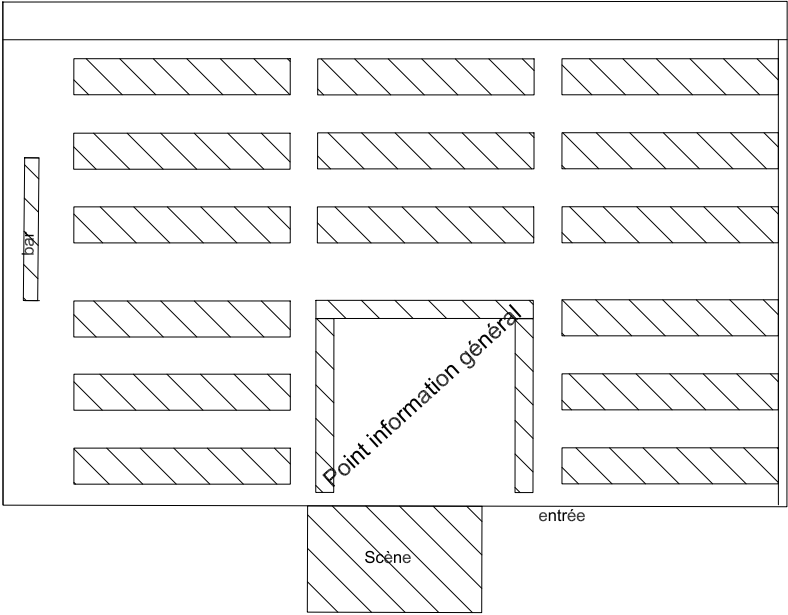
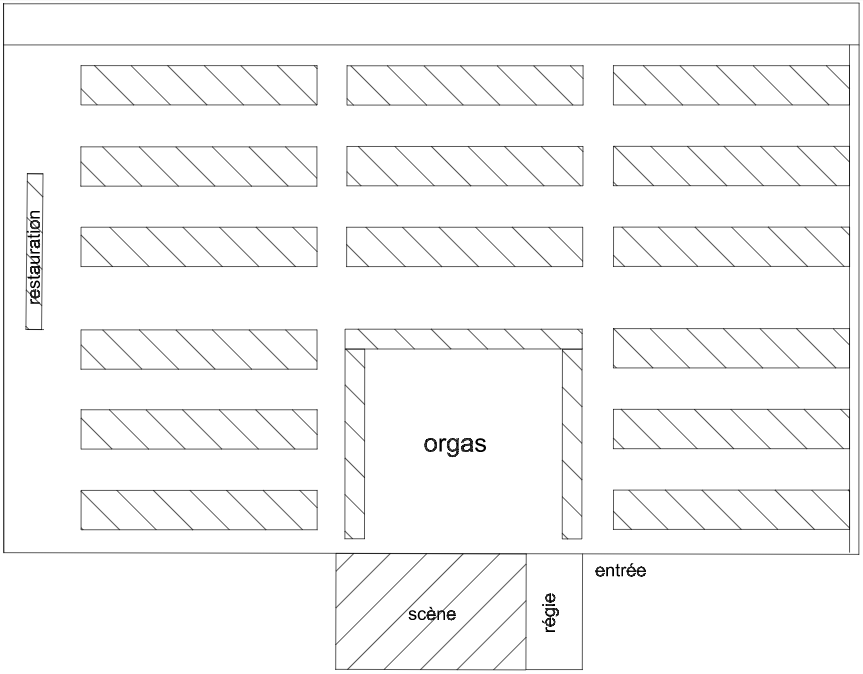
New map

diff --git a/js/placement.js b/js/placement.js
@@ -7,34 +7,32 @@ $plans.each(function () {
     var placement = parseInt($plan.attr('data-placement'), 10);
 
     var x = [
-        75,   146,  218,  318,  389,  462,  563,  634,  706,
-        75,   146,  218,  318,  389,  462,  563,  634,  706,
-        75,   146,  218,  318,  389,  462,  563,  634,  706,
-        75,   146,  218,  318,  389,  462,  563,  634,  706,
-        75,   146,  218,  318,  389,  462,  563,  634,  706,
-        75,   146,  218,  318,  389,  462,  563,  634,  706,
-        75,   146,  218,                    563,  634,  706,
-        75,   146,  218,                    563,  634,  706,
-        75,   146,  218,                    563,  634,  706,
-        75,   146,  218,                    563,  634,  706,
-        75,   146,  218,                    563,  634,  706,
-        75,   146,  218,                    563,  634,  706,
-        75,   146,  218,                    563,  634,  706
+        80,   160,  240,  347,  427,  503,  613,  693,  769,
+        80,   160,  240,  347,  427,  503,  613,  693,  769,
+        80,   160,  240,  347,  427,  503,  613,  693,  769,
+        80,   160,  240,  347,  427,  503,  613,  693,  769,
+        80,   160,  240,  347,  427,  503,  613,  693,  769,
+        80,   160,  240,  347,  427,  503,  613,  693,  769,
+        80,   160,  240,                    613,  693,  769,
+        80,   160,  240,                    613,  693,  769,
+        80,   160,  240,                    613,  693,  769,
+        80,   160,  240,                    613,  693,  769,
+        80,   160,  240,                    613,  693,  769,
+        80,   160,  240,                    613,  693,  769
     ];
     var y = [
-        -555, -555, -555, -555, -555, -555, -555, -555, -555,
-        -537, -537, -537, -537, -537, -537, -537, -537, -537,
-        -481, -481, -481, -481, -481, -481, -481, -481, -481,
-        -464, -464, -464, -464, -464, -464, -464, -464, -464,
-        -407, -407, -407, -407, -407, -407, -407, -407, -407,
-        -390, -390, -390, -390, -390, -390, -390, -390, -390,
-        -312, -312, -312,                   -312, -312, -312,
-        -296, -296, -296,                   -296, -296, -296,
-        -296, -296, -296,                   -296, -296, -296,
-        -240, -240, -240,                   -240, -240, -240,
-        -222, -222, -222,                   -222, -222, -222,
-        -166, -166, -166,                   -166, -166, -166,
-        -148, -148, -148,                   -148, -148, -148
+        -608, -608, -608, -608, -608, -608, -608, -608, -608,
+        -589, -589, -589, -589, -589, -589, -589, -589, -589,
+        -527, -527, -527, -527, -527, -527, -527, -527, -527,
+        -507, -507, -507, -507, -507, -507, -507, -507, -507,
+        -447, -447, -447, -447, -447, -447, -447, -447, -447,
+        -427, -427, -427, -427, -427, -427, -427, -427, -427,
+        -345, -345, -345,                   -345, -345, -345,
+        -325, -325, -325,                   -325, -325, -325,
+        -265, -265, -265,                   -265, -265, -265,
+        -245, -245, -245,                   -245, -245, -245,
+        -184, -184, -184,                   -184, -184, -184,
+        -164, -164, -164,                   -164, -164, -164
     ];
 
     var $overflow = $('<div class="placement"></div>');

diff --git a/account.html b/account.html
@@ -185,7 +185,7 @@
                             </tbody>
                         </table>
                         <h3>Placement de l'équipe</h3>
-                        <img src="img/plan.png" alt="Plan UTT" data-placement="86">
+                        <img src="img/plan.png" alt="Plan UTT" data-placement="0">
                     </span>
                     <span class="content">
                         Inscription à un spotlight

diff --git a/css/account.css b/css/account.css
@@ -44,6 +44,6 @@ main .account table td {
 .placement {
     background-color: rgba(255, 0, 0, 0.5);
     position: relative;
-    height: 16.5px;
-    width: 71px;
+    height: 19.5px;
+    width: 80px;
 }
